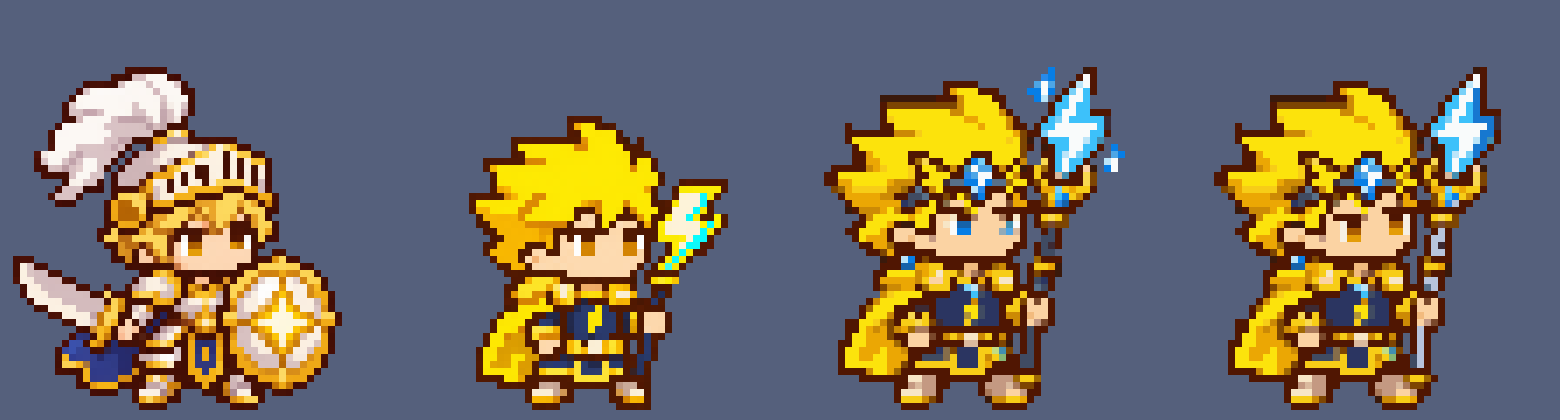
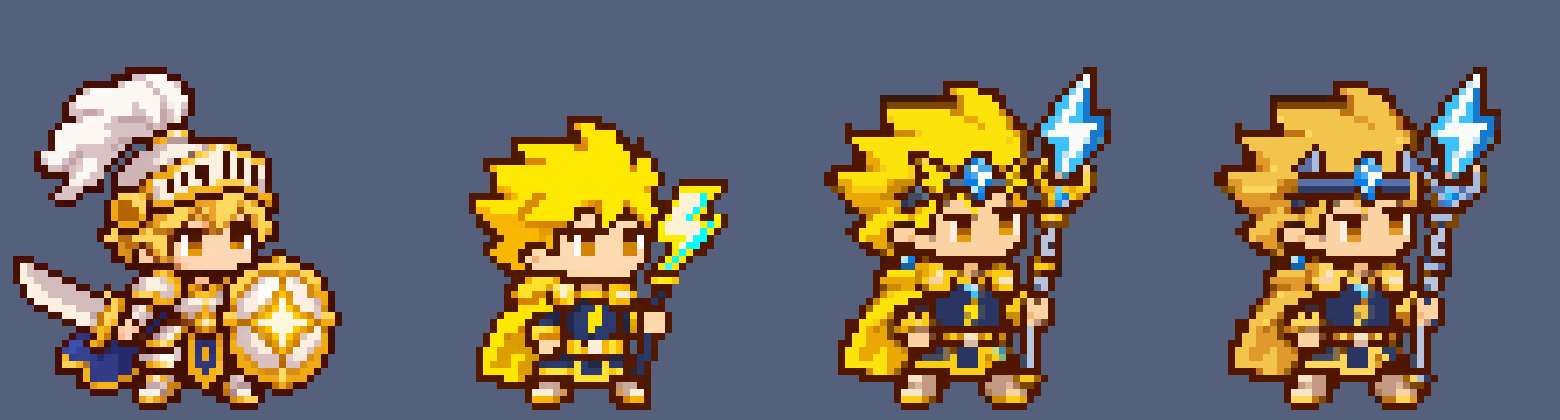
볼트 색·머리띠 고침(확인 대기)

diff --git a/개발일지/2026-11-27/이미지.md b/개발일지/2026-11-27/이미지.md
@@ -362,3 +362,9 @@
 - 의도: 사용자 "합쳐봐."
 - 결과: 다음부터 `/game-art`를 부르면 검수표까지 적용.
 - 그림: 없음
+
+## [디자인] 볼트 검수표 대조 후 색 고침
+- 한 것: 노랑을 기사 톤의 차분한 금색으로, 머리띠·지팡이 받침을 남색 강철색으로(머리띠는 한 줄 띠 + 작은 지느러미로 정리), 청록 잔점 제거.
+- 의도: 사용자 "아니 너가읽고 이미지 비교해봣냐고" → 대조해 어긋난 두 항목을 말씀드림 → "고쳐 줘"
+- 결과: 선명한 색 점 30% → 0%, 외곽선 빈틈 0, 폭 41(기사 47). 사용자 확인 대기.
+- 그림: img/pixellab/redo/volt_compare.png (기사 / 지금 / 고치기 전 / 고친 뒤)
